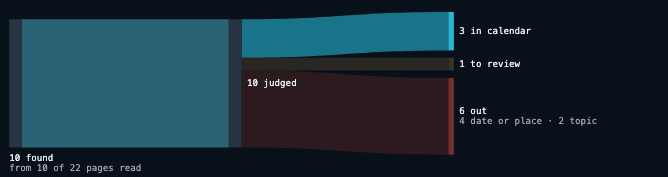
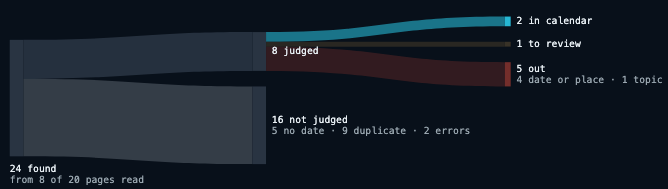
#118: funnel with the drawing's numbers: 120 px scale, columns 10/260/520, gap 16, drawing's fills
Owner: the built Sankey was too fat and less balanced than the drawing. Scale is now 120/found
px per event in a 640-wide frame that only grows for labels; column 2 centred on the found bar,
column 3 on the judged node; ribbons border .9 / muted .3 / .6 .7 .4. The drawing's own gaps are
28 (column 2) and 16 (column 3) and its judged node sits 12 px above a centred stack; gap 16
reproduces its column 3 and not-judged node exactly, the test lists the hand-placed offsets.
Screenshots are the drawing's case (24 found, 8 judged, 2 / 1 / 5), light and dark.

diff --git a/frontend/src/components/Funnel.tsx b/frontend/src/components/Funnel.tsx
@@ -38,19 +38,21 @@ export function funnelNumbers(counts: Record<string, number>) {
 
 const MAIN = { fill: 'var(--foreground)', fontWeight: 500 }
 const SUB = { fill: 'var(--muted-foreground)' }
-const RING = { fill: 'var(--ring)', opacity: 0.45 }
+const JUDGED_RIBBON = { fill: 'var(--border)', opacity: 0.9 }
 const GREY = { fill: 'var(--muted-foreground)', opacity: 0.3 }
 
-// Sankey after _docs/ui/05-funnel-sankey.svg: one scale (px per event) for the whole drawing, three columns
-// at equal spacing, nodes of a column stacked with a fixed gap and centred, labels beside their own node.
-export const GAP = 8
-export const TOP = 20
-export const HEIGHT = 140
-export const X = [10, 250, 490]
-export const WIDTH = 730
+// Sankey with the numbers of _docs/ui/05-funnel-sankey.svg: 120 px for the events found (5 px per event for 24),
+// columns at x 10 / 260 / 520, nodes stacked GAP apart and centred, labels beside their own node. The viewBox
+// only grows for labels, never by scaling. shortcut: the drawing's column gaps are 28 and 16, not one value;
+// 16 reproduces its column 3 and its not-judged node, upgrade if the owner wants column 2 wider apart.
+export const GAP = 16
+export const TOP = 40
+export const HEIGHT = 120
+export const X = [10, 260, 520]
+export const WIDTH = 640
 const BAR = [14, 14, 6]
 const LINE = 11
-const CHARS = 36 // a breakdown line wraps here: 36 × 6 px fits the room between two columns
+const CHARS = [0, 40, 26] // a breakdown line wraps here per column (6 px per character)
 
 type Node = { key: string; count: number; fill: string; opacity?: number; label: string; subs: string[] }
 type Placed = Node & { x: number; w: number; y: number; h: number; lines: { y: number; text: string; main: boolean }[] }
@@ -62,11 +64,11 @@ function ribbon(x0: number, yL0: number, yL1: number, x1: number, yR0: number, y
 }
 
 /** "5 no date · 9 duplicate · …" cut into lines no wider than the gap between two columns. */
-function wrap(parts: string[]): string[] {
+function wrap(parts: string[], chars: number): string[] {
   const lines: string[] = []
   for (const p of parts) {
     const last = lines[lines.length - 1]
-    if (last !== undefined && `${last} · ${p}`.length <= CHARS) lines[lines.length - 1] = `${last} · ${p}`
+    if (last !== undefined && `${last} · ${p}`.length <= chars) lines[lines.length - 1] = `${last} · ${p}`
     else lines.push(p)
   }
   return lines
@@ -103,8 +105,8 @@ export function Funnel({ counts, countsVersion = 3, className }: { counts: Recor
   const found: Placed = {
     key: 'found', count: n.found, fill: 'var(--border)', label: `${n.found} found`, x: X[0], w: BAR[0], y: TOP, h: HEIGHT,
     subs: [], lines: [
-      { y: TOP + HEIGHT + 15, text: `${n.found} found`, main: true },
-      { y: TOP + HEIGHT + 15 + LINE, main: false, text: 'pages_with_events' in counts ? `from ${n.pagesWithEvents} of ${n.pages} pages read` : `on ${n.pages} pages read` },
+      { y: TOP + HEIGHT + 16, text: `${n.found} found`, main: true },
+      { y: TOP + HEIGHT + 16 + LINE, main: false, text: 'pages_with_events' in counts ? `from ${n.pagesWithEvents} of ${n.pages} pages read` : `on ${n.pages} pages read` },
     ],
   }
   const col2 = stack([
@@ -114,7 +116,7 @@ export function Funnel({ counts, countsVersion = 3, className }: { counts: Recor
       subs: wrap([
         ...nz(n.noDate, 'no date'), ...nz(n.past, 'past'), ...nz(n.duplicate, 'duplicate'), ...nz(n.date, 'date'),
         ...nz(n.place, 'place'), ...nz(n.incomplete, 'incomplete'), ...nz(n.capped, 'capped'), ...nz(n.judgeErrors, 'errors'),
-      ]),
+      ], CHARS[1]),
     },
     { key: 'notAccounted', count: notAccounted, fill: 'var(--border)', label: `${notAccounted} not accounted`, subs: ['run before 22 Oct, counters added later'] },
   ], 1, s, centre)
@@ -123,8 +125,8 @@ export function Funnel({ counts, countsVersion = 3, className }: { counts: Recor
     { key: 'accepted', count: n.accepted, fill: 'var(--zone-calendar)', opacity: 0.6, label: `${n.accepted} in calendar`, subs: [] },
     { key: 'queued', count: n.queued, fill: 'var(--zone-decide)', opacity: 0.7, label: `${n.queued} to review`, subs: [] },
     {
-      key: 'rejected', count: n.rejected, fill: 'var(--zone-rejected)', opacity: 0.35, label: `${n.rejected} out`,
-      subs: wrap([...nz(n.rejectedDatePlace, 'date or place'), ...nz(n.rejectedOffTopic, 'topic'), ...nz(n.rejectedOther, 'other')]),
+      key: 'rejected', count: n.rejected, fill: 'var(--zone-rejected)', opacity: 0.4, label: `${n.rejected} out`,
+      subs: wrap([...nz(n.rejectedDatePlace, 'date or place'), ...nz(n.rejectedOffTopic, 'topic'), ...nz(n.rejectedOther, 'other')], CHARS[2]),
     },
   ], 2, s, judged ? judged.y + judged.h / 2 : centre)
 
@@ -134,19 +136,22 @@ export function Funnel({ counts, countsVersion = 3, className }: { counts: Recor
     return to.map((t) => {
       const d = ribbon(from.x + from.w, y, y + t.h, t.x, t.y, t.y + t.h)
       y += t.h
-      return { key: t.key, d, style: t.key === 'judged' ? RING : from.key === 'found' ? GREY : { fill: t.fill, opacity: t.opacity } }
+      return { key: t.key, d, style: t.key === 'judged' ? JUDGED_RIBBON : from.key === 'found' ? GREY : { fill: t.fill, opacity: t.opacity } }
     })
   }
   const ribbons = [...flows(found, col2), ...(judged ? flows(judged, col3) : [])]
   const all = [found, ...col2, ...col3]
+  const labelX = (p: Placed) => (p.key === 'found' ? p.x : p.x + p.w + 6)
+  // the drawing's frame; it only grows to keep a long label line inside, never shrinking the nodes' scale
   const height = Math.max(...all.flatMap((p) => [p.y + p.h, ...p.lines.map((l) => l.y)])) + 6
+  const width = Math.max(WIDTH, ...all.flatMap((p) => p.lines.map((l) => labelX(p) + l.text.length * 6 + 6)))
 
   return (
     <svg
       data-testid="funnel"
       role="img"
       aria-label={`Funnel: ${n.found} events found, ${n.judged} judged: ${n.accepted} in calendar, ${n.queued} to review, ${n.rejected} out`}
-      viewBox={`0 0 ${WIDTH} ${height}`}
+      viewBox={`0 0 ${width} ${height}`}
       className={cn('w-full font-mono text-[10px]', className)}
     >
       <title>Where the {n.found} events went</title>
@@ -155,7 +160,7 @@ export function Funnel({ counts, countsVersion = 3, className }: { counts: Recor
         <g key={p.key}>
           <rect data-testid={`funnel-node-${p.key}`} x={p.x} y={p.y} width={p.w} height={p.h} fill={p.fill} />
           {p.lines.map((l) => (
-            <text key={l.text} x={p.key === 'found' ? p.x : p.x + p.w + 6} y={l.y} style={l.main ? MAIN : SUB}>{l.text}</text>
+            <text key={l.text} x={labelX(p)} y={l.y} style={l.main ? MAIN : SUB}>{l.text}</text>
           ))}
         </g>
       ))}

diff --git a/frontend/src/components/Funnel.test.tsx b/frontend/src/components/Funnel.test.tsx
@@ -69,9 +69,8 @@ function expectStructure(container: HTMLElement, c: Record<string, number>, extr
     expect(r.yL0).toBeGreaterThanOrEqual(from.y)
     expect(r.yL1).toBeLessThanOrEqual(from.y + from.h + 1e-6)
   }
-  // columns: equal x spacing; nodes GAP apart; column 2 centred on found, column 3 on judged
+  // columns at the drawing's x; nodes GAP apart; column 2 centred on found, column 3 on judged
   expect(by.found).toMatchObject({ x: X[0], y: TOP, h: HEIGHT })
-  expect(X[1] - X[0]).toBe(X[2] - X[1])
   const col = (x: number) => ns.filter((b) => b.x === x).sort((a, b) => a.y - b.y)
   const centred = (c: Box[], centre: number) => {
     for (let i = 1; i < c.length; i++) expect(c[i].y - (c[i - 1].y + c[i - 1].h)).toBeCloseTo(GAP, 6)
@@ -112,7 +111,59 @@ describe('funnelNumbers', () => {
   })
 })
 
+// The owner's drawing, _docs/ui/05-funnel-sankey.svg, read as numbers: 24 found, 8 judged, 16 not judged, 2 / 1 / 5.
+const DRAWING = {
+  counts: { results_fetched: 20, pages_with_events: 8, events_extracted: 24, filtered_no_date: 5, filtered_duplicate: 9, judge_errors: 2, accepted: 2, queued: 1, rejected: 5, rejected_date_place: 4, rejected_off_topic: 1 },
+  viewBox: [640, 200],
+  rects: {
+    found: { x: 10, y: 40, w: 14, h: 120 },
+    judged: { x: 260, y: 20, w: 14, h: 40 },
+    notJudged: { x: 260, y: 88, w: 14, h: 80 },
+    accepted: { x: 520, y: 8, w: 6, h: 10 },
+    queued: { x: 520, y: 34, w: 6, h: 5 },
+    rejected: { x: 520, y: 55, w: 6, h: 25 },
+  },
+  texts: {
+    '24 found': [10, 176], 'from 8 of 20 pages read': [10, 187],
+    '8 judged': [280, 33], '16 not judged': [280, 124], '5 no date · 9 duplicate · 2 errors': [280, 135],
+    '2 in calendar': [532, 16], '1 to review': [532, 40], '5 out': [532, 66], '4 date or place · 1 topic': [532, 77],
+  },
+  ribbons: { judged: ['var(--border)', '0.9'], notJudged: ['var(--muted-foreground)', '0.3'], accepted: ['var(--zone-calendar)', '0.6'], queued: ['var(--zone-decide)', '0.7'], rejected: ['var(--zone-rejected)', '0.4'] },
+}
+// Where the hand-made drawing departs from its own rule (nodes GAP apart, centred on their source): its column-2 gap is
+// 28 and its judged node sits 12 px higher than a centred stack puts it, which moves column 3 and "8 judged" with it.
+const HAND_PLACED = { judged: 12, accepted: 8, queued: 8, rejected: 8, '8 judged': 22, '2 in calendar': 8, '1 to review': 8, '5 out': 8, '4 date or place · 1 topic': 8 }
+
 describe('Funnel', () => {
+  it("matches the owner's drawing numerically: frame, scale, columns, widths, labels, fills", () => {
+    const { container } = render(<Funnel counts={DRAWING.counts} />)
+    const [width, height] = container.querySelector('svg')!.getAttribute('viewBox')!.split(' ').slice(2).map(Number)
+    // the drawing's own "4 date or place · 1 topic" runs to x 682, past its 640 frame: the frame grows just enough for it
+    expect(width).toBeGreaterThanOrEqual(DRAWING.viewBox[0])
+    expect(width).toBeLessThanOrEqual(690)
+    expect(Math.abs(height - DRAWING.viewBox[1])).toBeLessThanOrEqual(7) // the frame ends 6 px under the last label
+    const within = (got: number, want: number, slack: number, what: string) => expect(Math.abs(got - want), what).toBeLessThanOrEqual(slack)
+    const by = Object.fromEntries(nodes(container).map((b) => [b.key, b]))
+    for (const [key, r] of Object.entries(DRAWING.rects)) {
+      expect(by[key], key).toBeDefined()
+      within(by[key].x, r.x, 0, `${key} x`)
+      within(by[key].w, r.w, 0, `${key} width`)
+      within(by[key].h, r.h, 2, `${key} height`)
+      within(by[key].y, r.y, 2 + (HAND_PLACED[key as keyof typeof HAND_PLACED] ?? 0), `${key} y`)
+    }
+    for (const [text, [x, y]] of Object.entries(DRAWING.texts)) {
+      const t = screen.getByText(text)
+      within(Number(t.getAttribute('x')), x, 0, `${text} x`)
+      within(Number(t.getAttribute('y')), y, 2 + (HAND_PLACED[text as keyof typeof HAND_PLACED] ?? 0), `${text} y`)
+    }
+    for (const [key, [fill, opacity]] of Object.entries(DRAWING.ribbons)) {
+      const p = screen.getByTestId(`funnel-ribbon-${key}`)
+      expect([p.getAttribute('fill'), p.getAttribute('opacity')], key).toEqual([fill, opacity])
+    }
+    // the rule itself, exactly: nodes GAP apart, column 2 centred on found, column 3 on judged
+    expectStructure(container, DRAWING.counts)
+  })
+
   it('is a Sankey at one scale: ribbons as thick as their node at both ends, columns stacked GAP apart and centred', () => {
     const { container } = render(<Funnel counts={counts} />)
     expectStructure(container, counts)
